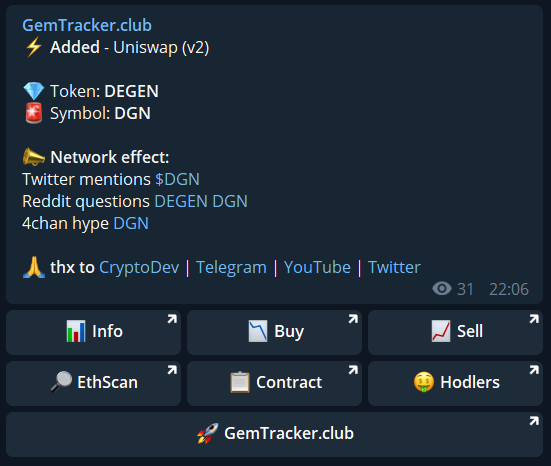
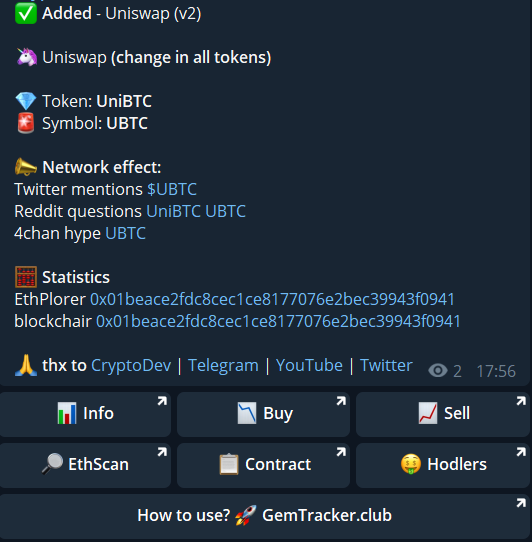
readme changes

Changed region(s): [[0.0, 0.6609, 1.0, 1.0], [0.0301, 0.1502, 0.9624, 0.6309], [0.0301, 0.0, 0.5113, 0.1202]]

diff --git a/README.md b/README.md
@@ -38,6 +38,8 @@ Join the secret channel on [Telegram](tg://join?invite=AAAAAFVYFw5YfpnyAUPhEg) a
 
 ![Added notification](docs/images/added_info.png)
 
+![Deleted notification](docs/images/deleted_info.png)
+
 ### How to use
 
 After getting notification from **GemTracker** on Telegram about adding new token to `DEX` (decentralized exchange), please `DYOR` (do your own research).
@@ -50,6 +52,9 @@ Feel free to use provided features, described below:
 	- *Twitter mentions* - check tweets with symbol of this token,
 	- *Reddit questions* - find out what community says on Reddit,
 	- *4chan hype* - maybe anonymous people are trying to pump this project
+- Statistics (few metrics from blockchain):
+	- *EthPlorer* - check holders, contract creator, transactions and more
+	- *blockchair* - check when created, in which block and more
 - Check this token on [Uniswap](https://uniswap.info/home):
 	- *Info* - the best place to check basic metrics like Liquidity, Volume, Transactions
 	- *Buy* - if you want to buy it, click
